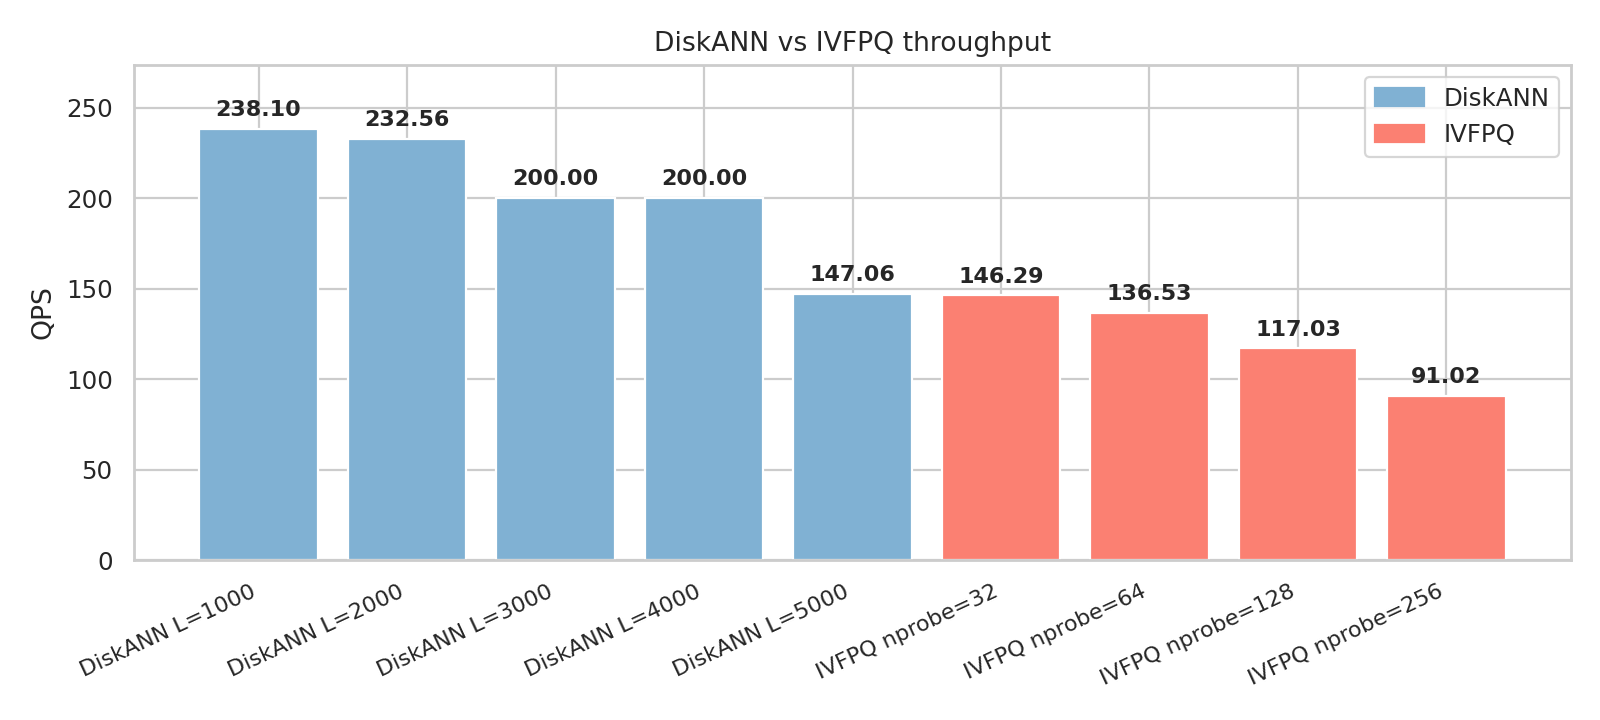
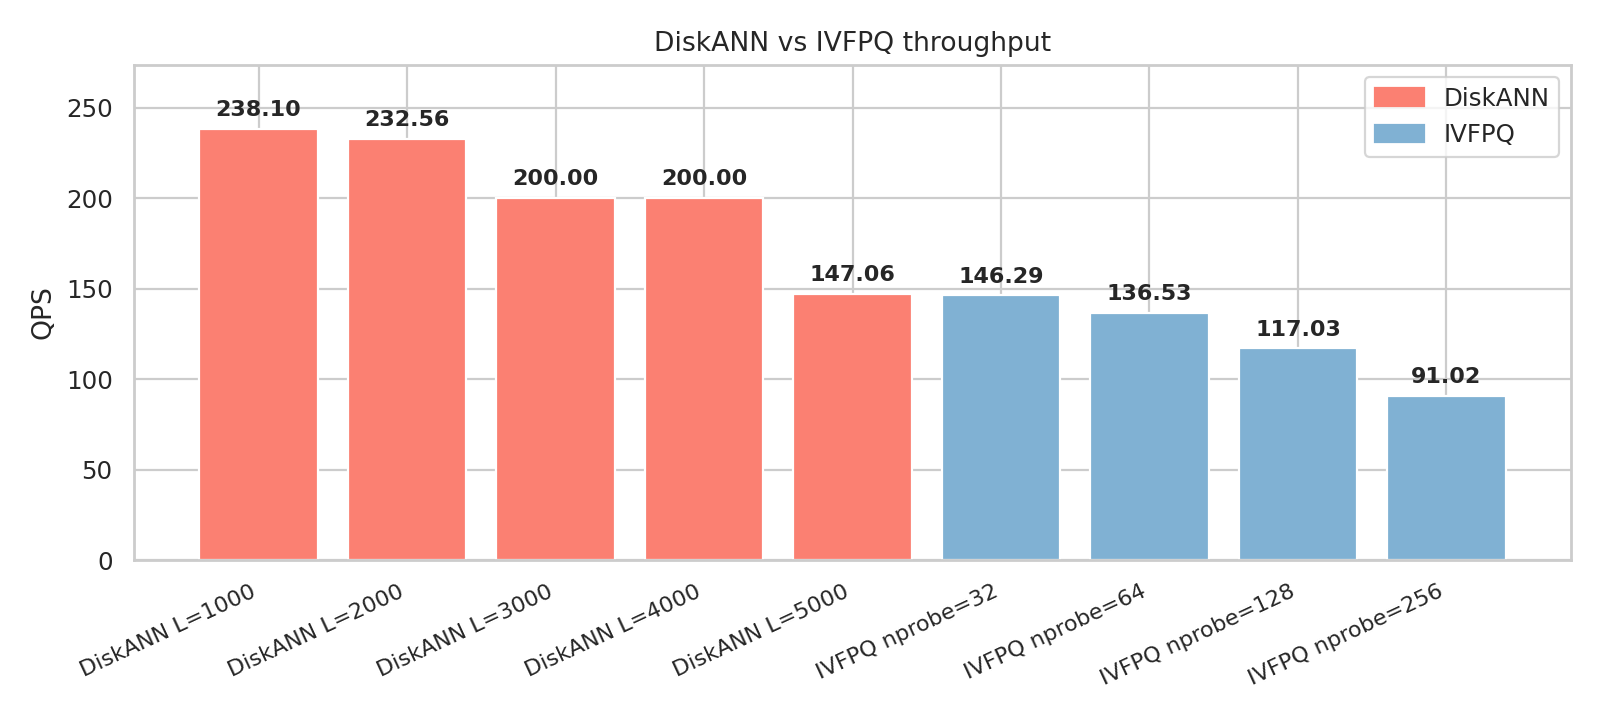
caption change and figure regeneration

Changed region(s): [[0.125, 0.1833, 0.9375, 0.7944], [0.8438, 0.1222, 0.9062, 0.2139]]

diff --git a/scripts/plot_qps.py b/scripts/plot_qps.py
@@ -63,7 +63,7 @@ def plot_diskann_qps(data, out_dir: str) -> None:
 
 def plot_diskann_vs_ivfpq_summary(diskann_rows, faiss_rows, out_dir: str) -> None:
     """Throughput-only comparison with clear L/nprobe labels, more bars."""
-    colors = {"DiskANN": "#80b1d3", "IVFPQ": "#fb8072"}  # darker Set3
+    colors = {"DiskANN": "#fb8072", "IVFPQ": "#80b1d3"}  # darker Set3 (swapped for consistency)
 
     labels = []
     vals = []

diff --git a/docs/index.md b/docs/index.md
@@ -348,7 +348,7 @@ This represents a significantly larger datastore than most prior work, and to th
   <img src="{{ 'plots/diskann_qps_vs_L.png' | relative_url }}" alt="DiskANN batched QPS vs L" style="width: 44%; margin: 8px;" />
   <img src="{{ 'plots/diskann_single_request_qps_vs_L.png' | relative_url }}" alt="DiskANN single-request QPS vs L" style="width: 44%; margin: 8px;" />
 </p>
-<p>Higher <i>L</i> improves recall/quality; <i>L≈1000</i> is the recommended default for robust accuracy with strong throughput.</p>
+<p>Higher <i>L</i> improves recall/quality; <i>L≈1000</i> is the recommended default for robust accuracy with strong throughput. If latency is your primary concern, a small <i>L=150</i> can deliver very good results on common queries and also keep latency low.</p>
 <hr />
 
 
@@ -362,7 +362,7 @@ This represents a significantly larger datastore than most prior work, and to th
 <p align="center">
   <img src="{{ 'plots/search_engine_accuracy_avg.png' | relative_url }}" alt="AVG accuracy: Search Engine vs DS Serve Database" style="width: 70%; margin: 8px;" />
 </p>
-<p><b>Takeaway:</b> DS Serve achieves comparable or better downstream accuracy than Google CSE while offering <b>~30× higher throughput</b> (batched) and <b>~2× lower latency</b> (single-request)—all without rate limits or API costs.</p>
+<p> DS Serve achieves comparable or better downstream accuracy than Google CSE while offering <b>~30× higher throughput</b> (batched) and <b>~2× lower latency</b> (single-request)—all without rate limits or API costs. We aim to keep enhancing the throughput of our prototype and reach 10000 QPS end-to-end eventually.</p>
 
 <details>
 <summary><b>Exact &amp; Diverse (optional toggles)</b></summary>
